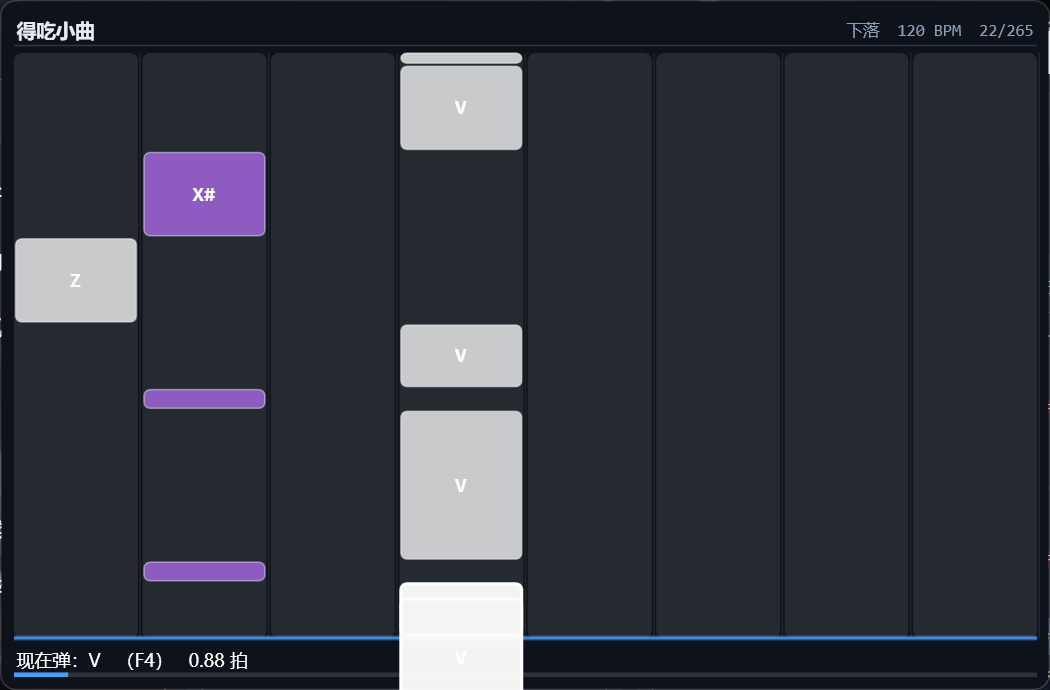
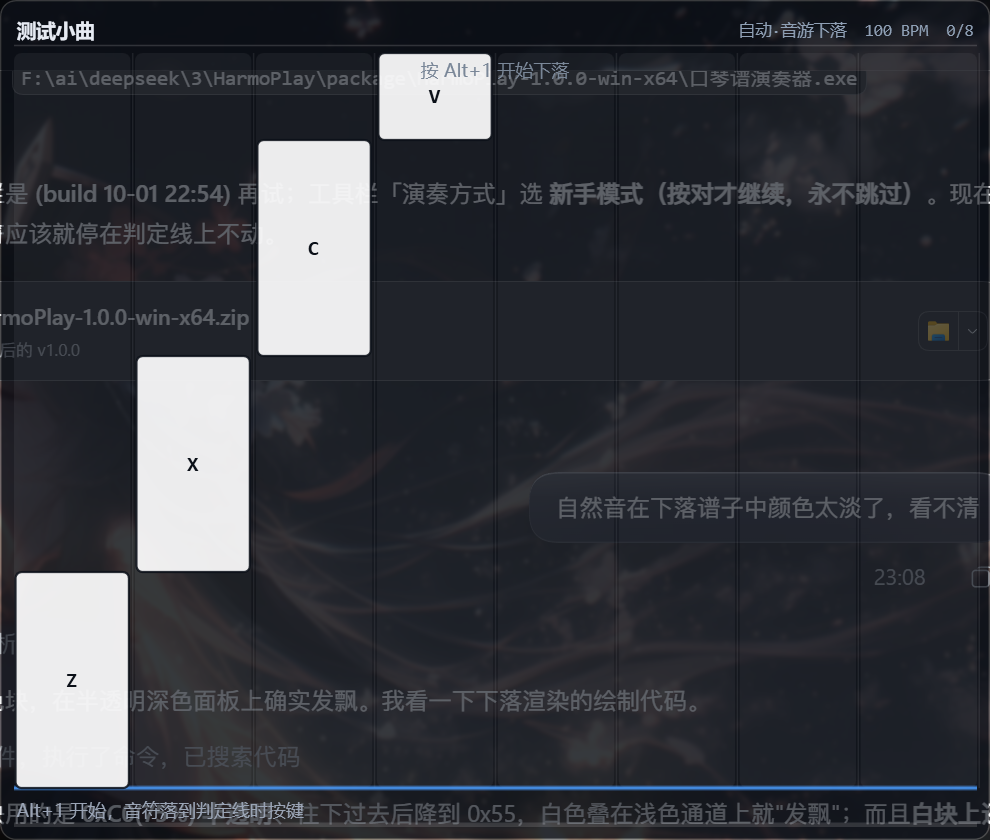
fix(1.0.0): 下落谱面自然音（白块）可见性——实心填充+深色描边+深色按键文字，通道底色压暗

diff --git a/Views/OverlayWindow.xaml.cs b/Views/OverlayWindow.xaml.cs
@@ -514,7 +514,7 @@ public sealed class OverlayCanvas : FrameworkElement
         for (int i = 0; i < lanes; i++)
         {
             double x = i * (laneW + gap);
-            dc.DrawRoundedRectangle(Brush("#18FFFFFF"), null, new Rect(x, top, laneW, Math.Max(10, bottom - top)), 5, 5);
+            dc.DrawRoundedRectangle(Brush("#0EFFFFFF"), null, new Rect(x, top, laneW, Math.Max(10, bottom - top)), 5, 5);
             dc.DrawLine(new Pen(Brush("#14FFFFFF"), 1), new Point(x + laneW + gap / 2, top), new Point(x + laneW + gap / 2, bottom));
         }
 
@@ -643,19 +643,28 @@ public sealed class OverlayCanvas : FrameworkElement
     private void DrawBlock(DrawingContext dc, Rect rect, Chord chord, bool highlight, bool showKey, bool dimmed = false)
     {
         var color = ParseColor(chord.Color);
-        byte alpha = dimmed ? (byte)0x55 : highlight ? (byte)0xF2 : (byte)0xC0;
+        // 自然音是白色块：叠在浅色通道上会"发飘"，所以要画得更实、并给它深色描边和深色文字
+        bool pale = color.R > 200 && color.G > 200 && color.B > 200;
+        byte alpha = dimmed ? (byte)0x78 : highlight ? (byte)0xFF : (byte)0xEA;
         var fill = new SolidColorBrush(Color.FromArgb(alpha, color.R, color.G, color.B));
         fill.Freeze();
 
         var pen = highlight
             ? new Pen(Brushes.White, 2)
-            : new Pen(new SolidColorBrush(Color.FromArgb(dimmed ? (byte)0x30 : (byte)0x70, 255, 255, 255)), 1);
+            : pale
+                ? new Pen(new SolidColorBrush(Color.FromArgb(dimmed ? (byte)0x99 : (byte)0xDD, 0x0B, 0x10, 0x18)), 1.5)
+                : new Pen(new SolidColorBrush(Color.FromArgb(dimmed ? (byte)0x40 : (byte)0x88, 255, 255, 255)), 1);
 
         dc.DrawRoundedRectangle(fill, pen, rect, 4, 4);
 
         if (!showKey || rect.Width <= 14 || rect.Height < 11) return;
         var label = chord.Text;
-        var ft = Text(label, Math.Min(14, rect.Width / 2.2), Brushes.White, MonoFace, bold: true);
+        var labelColor = pale && !highlight
+            ? Color.FromRgb(0x0B, 0x10, 0x18)          // 白块 → 深色字
+            : Color.FromRgb(0xFF, 0xFF, 0xFF);         // 其它 → 白字
+        var labelBrush = new SolidColorBrush(labelColor);
+        labelBrush.Freeze();
+        var ft = Text(label, Math.Min(14, rect.Width / 2.2), labelBrush, MonoFace, bold: true);
         if (ft.Height + 2 <= rect.Height)
             dc.DrawText(ft, new Point(rect.X + (rect.Width - ft.Width) / 2, rect.Y + (rect.Height - ft.Height) / 2));
     }
@@ -691,5 +700,6 @@ public sealed class OverlayCanvas : FrameworkElement
         }
     }
 }
+
 
 
